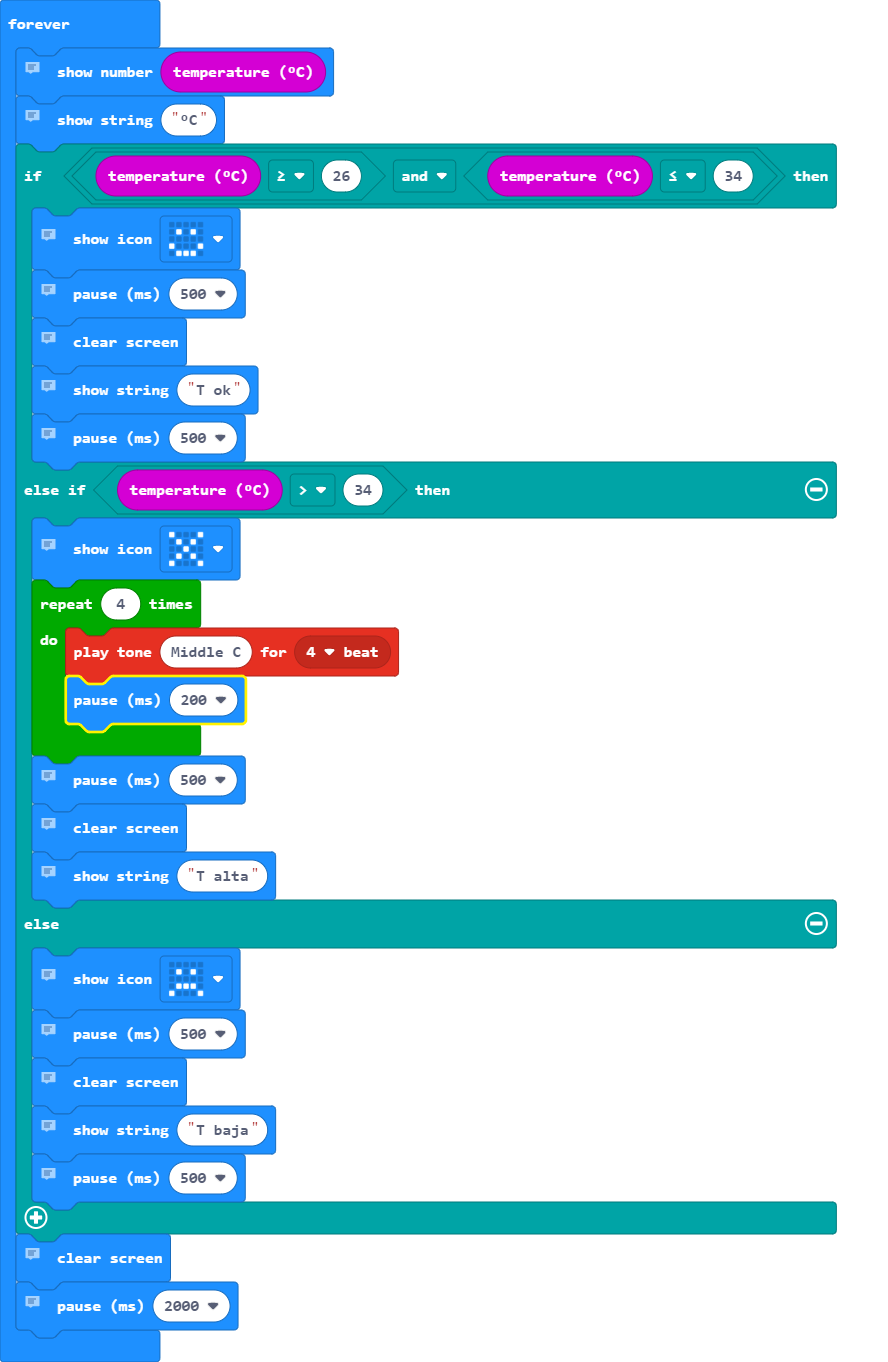
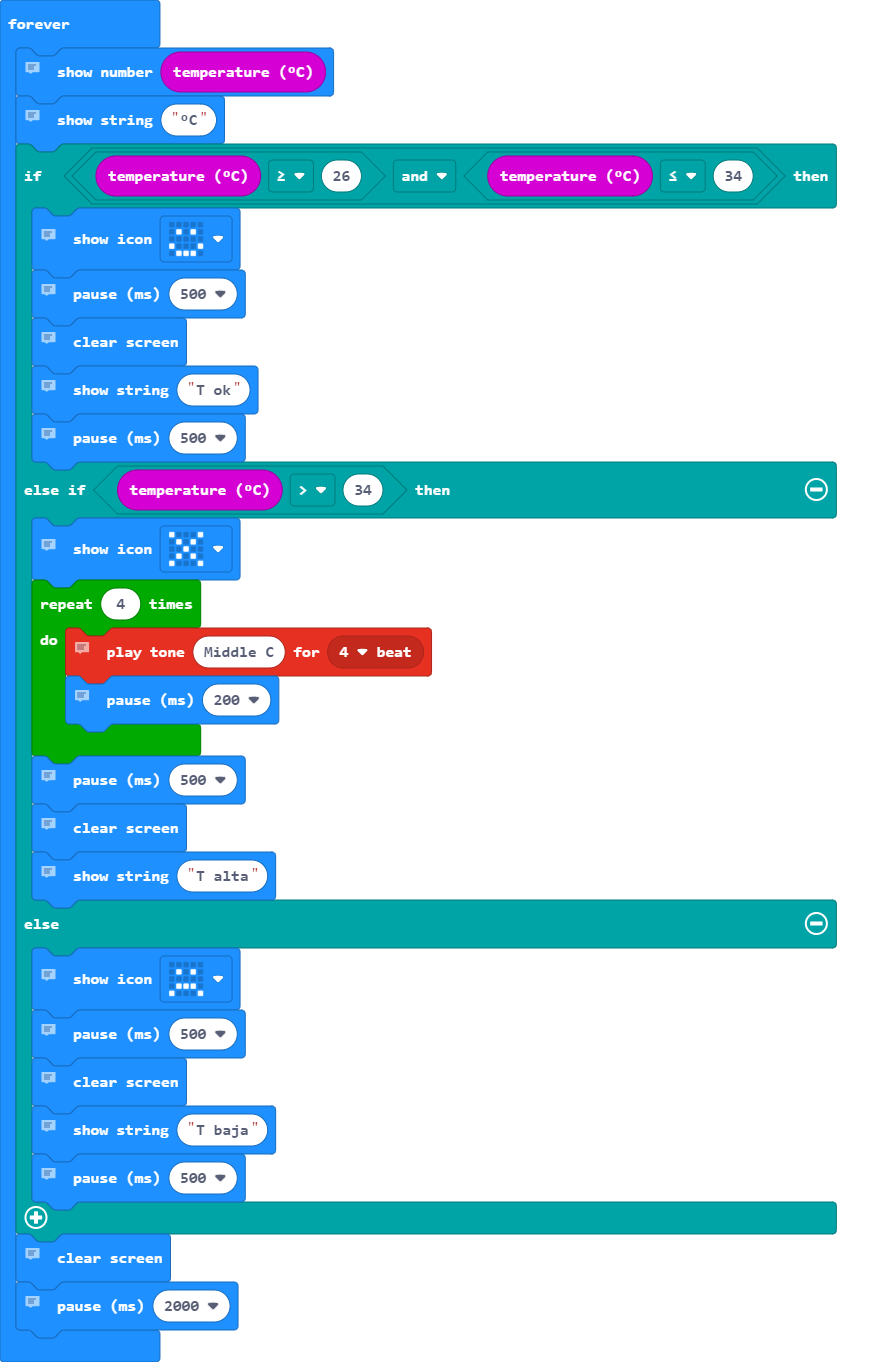
alarm added. minimal changes

Changed region(s): [[0.0608, 0.4626, 0.4865, 0.5551]]

diff --git a/main.ts b/main.ts
@@ -19,7 +19,10 @@ basic.forever(function () {
         // muestre símbolo de X ó alerta
         basic.showIcon(IconNames.No)
         for (let index = 0; index < 4; index++) {
+            // alarma que alerte de alta temperatura sonando 4 veces
+            // reproduce sonido
             music.playTone(262, music.beat(BeatFraction.Breve))
+            // pausa de 200 milisegundos entre cada pitido de la alarma
             basic.pause(200)
         }
         // pausa de 500 milisegundos
